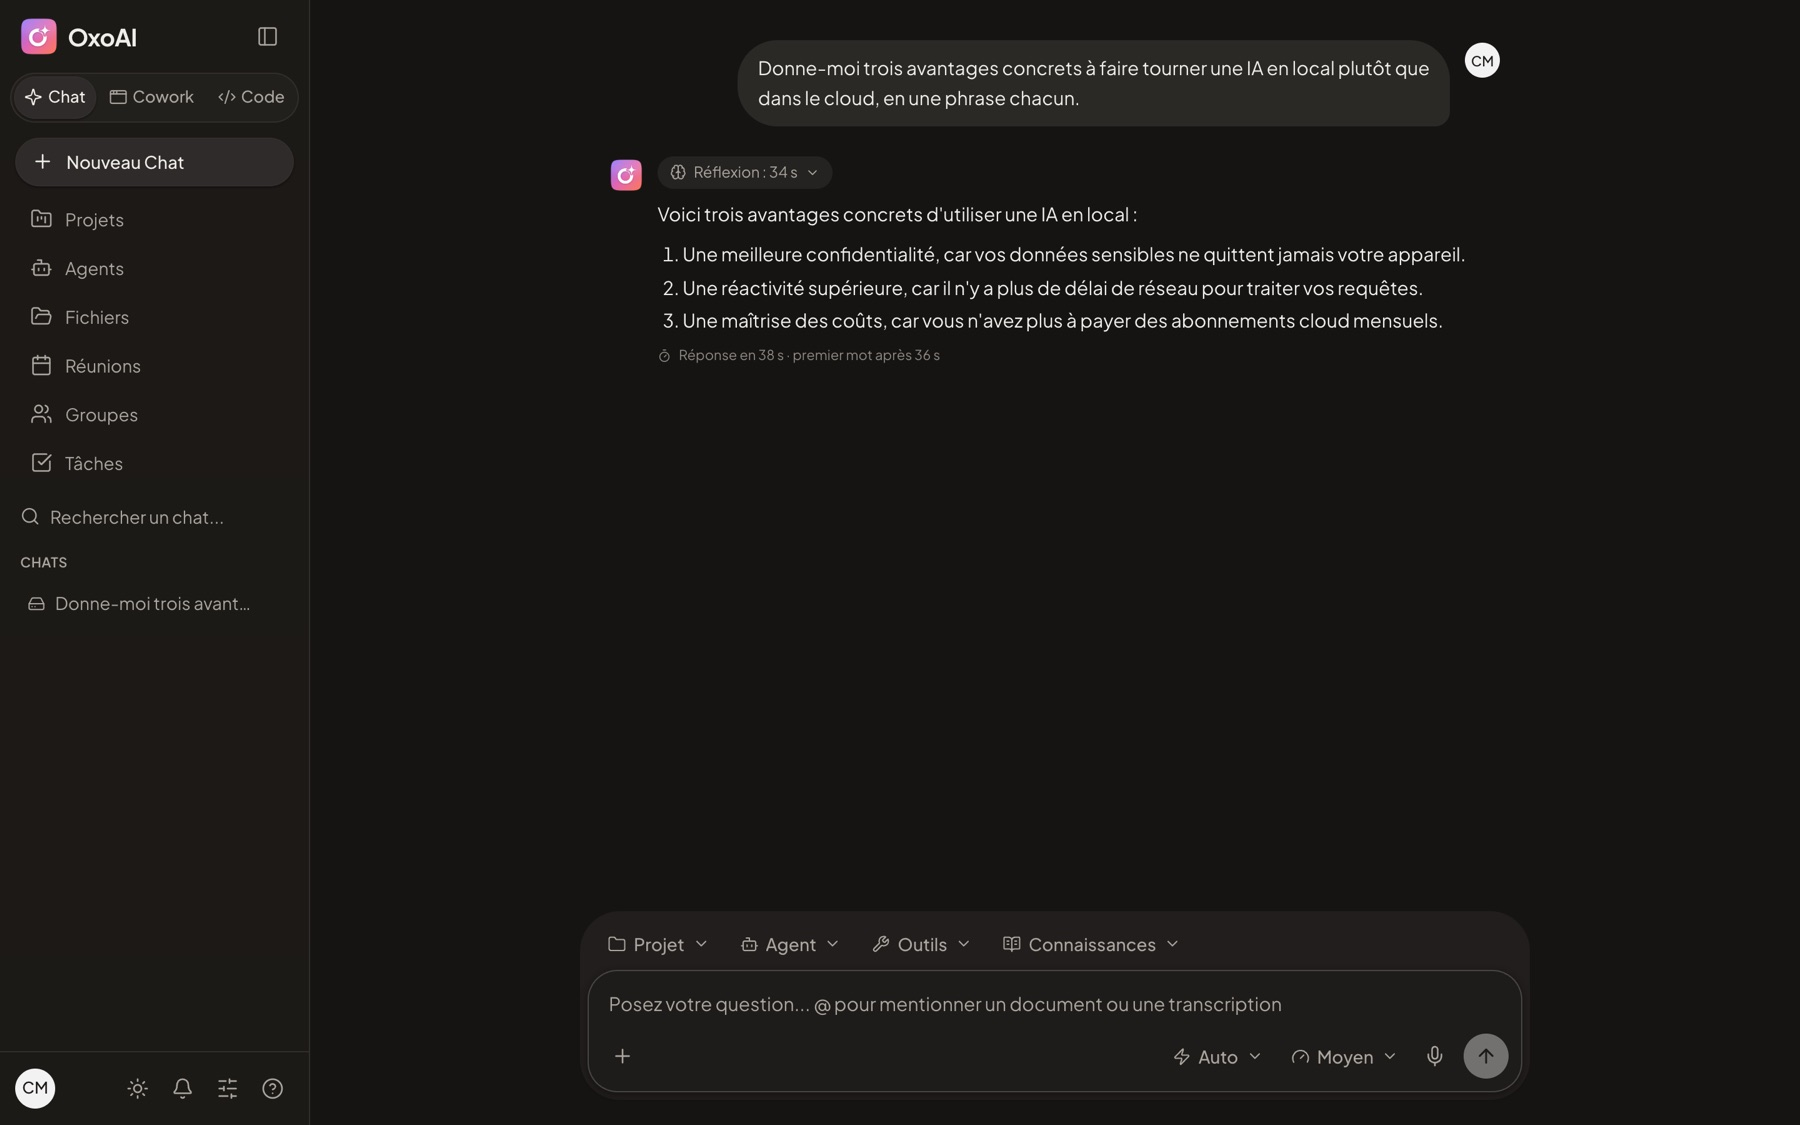
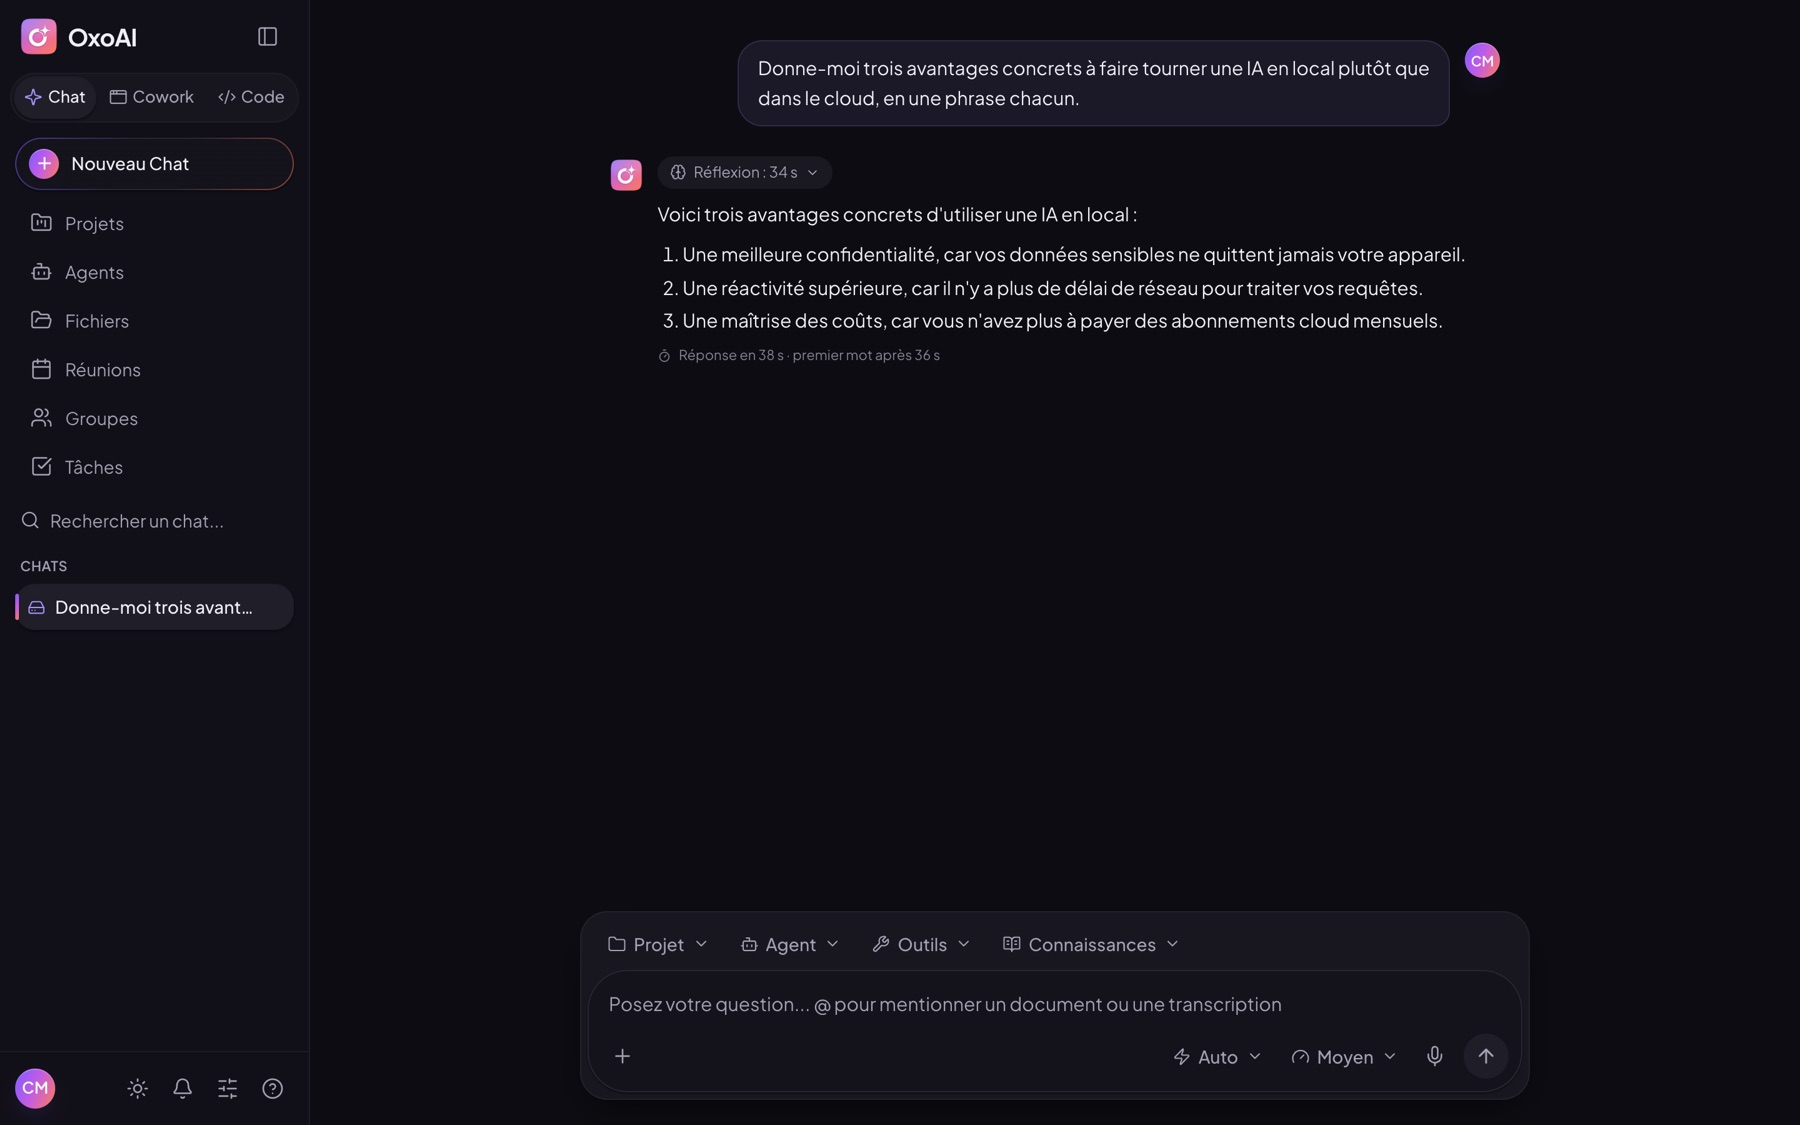
OxoAI 2026.1026.1 : nouvelle interface (notes de version, captures du site)

diff --git a/docs/publication/notes-2026.1026.1.md b/docs/publication/notes-2026.1026.1.md
@@ -1,0 +1,25 @@
+## OxoAI 2026.1026.1 : une nouvelle interface
+
+OxoAI change de visage, aux couleurs de la famille Oxo :
+
+- **Une palette retravaillée**, en clair comme en sombre : des neutres légèrement violets, des ombres plus profondes, un anneau de focus iris.
+- **Des titres élégants** en Instrument Serif, la police d'OxoFlow.
+- **Le dégradé de la marque** sur les boutons principaux, le bouton d'envoi, « Nouveau Chat » et ton avatar.
+- **Un accueil plus vivant** : un halo coloré, un grand titre et des suggestions présentées en cartes.
+- **Une navigation plus lisible** : la page active est surlignée d'un trait dégradé, dans la barre latérale comme dans les réglages.
+- **Des écrans de bienvenue et de connexion** redessinés.
+- **Une fenêtre d'installation soignée** à l'ouverture du `.dmg`.
+
+### Installer ou mettre à jour (Mac à puce Apple)
+
+Si OxoAI 2026.1026.0 est installé, la mise à jour est proposée dans l'application.
+
+Sinon, en une commande :
+
+```bash
+curl -fsSL https://raw.githubusercontent.com/martinleonardcyber-ops/oxoai/main/scripts/installer-macos.sh | sh
+```
+
+Ou télécharge `OxoAI-2026.1026.1-arm64.dmg` et glisse OxoAI dans Applications. L'application n'est pas signée par Apple : au premier lancement, *Réglages Système › Confidentialité et sécurité*, puis **Ouvrir quand même**.
+
+Un souci ? Ouvre un ticket dans les [Issues](https://github.com/martinleonardcyber-ops/oxoai/issues).

diff --git a/docs/publication/notes-2026.1026.1.en.md b/docs/publication/notes-2026.1026.1.en.md
@@ -1,0 +1,9 @@
+## OxoAI 2026.1026.1: a new look
+
+OxoAI gets the Oxo family's look: a reworked light and dark palette, Instrument Serif headings, the brand gradient on primary buttons, a livelier home screen with suggestion cards, clearer navigation, redesigned welcome and sign-in screens, and a polished install window for the `.dmg`.
+
+If OxoAI 2026.1026.0 is installed, the update is offered in the app. Otherwise:
+
+```bash
+curl -fsSL https://raw.githubusercontent.com/martinleonardcyber-ops/oxoai/main/scripts/installer-macos.sh | sh
+```
